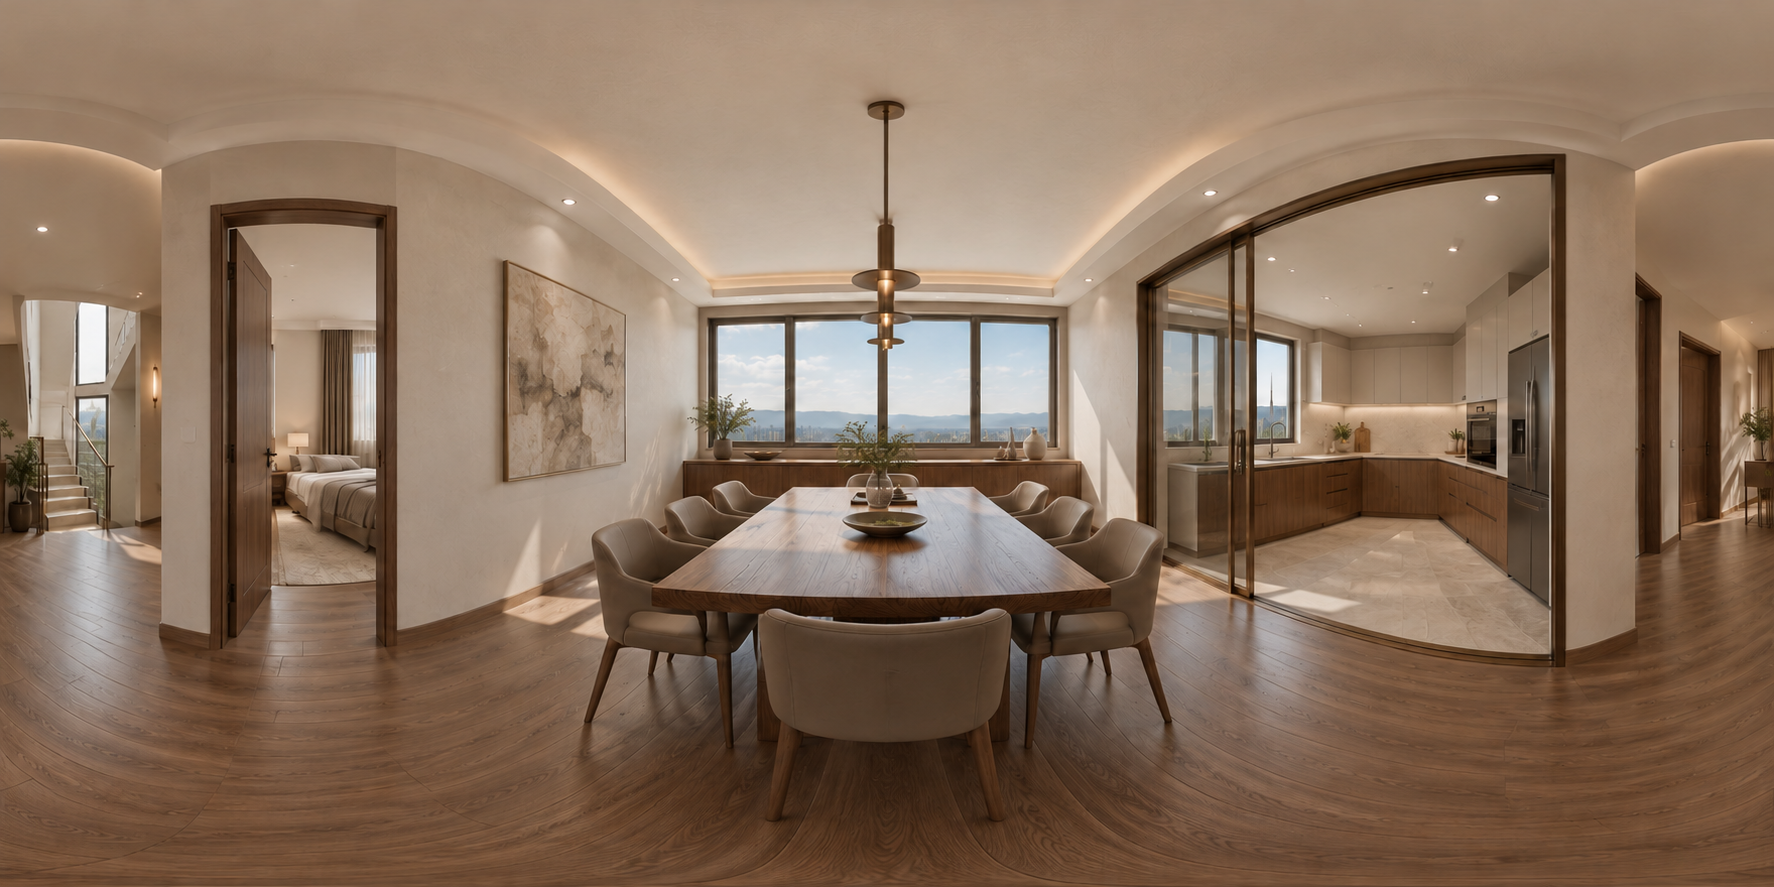
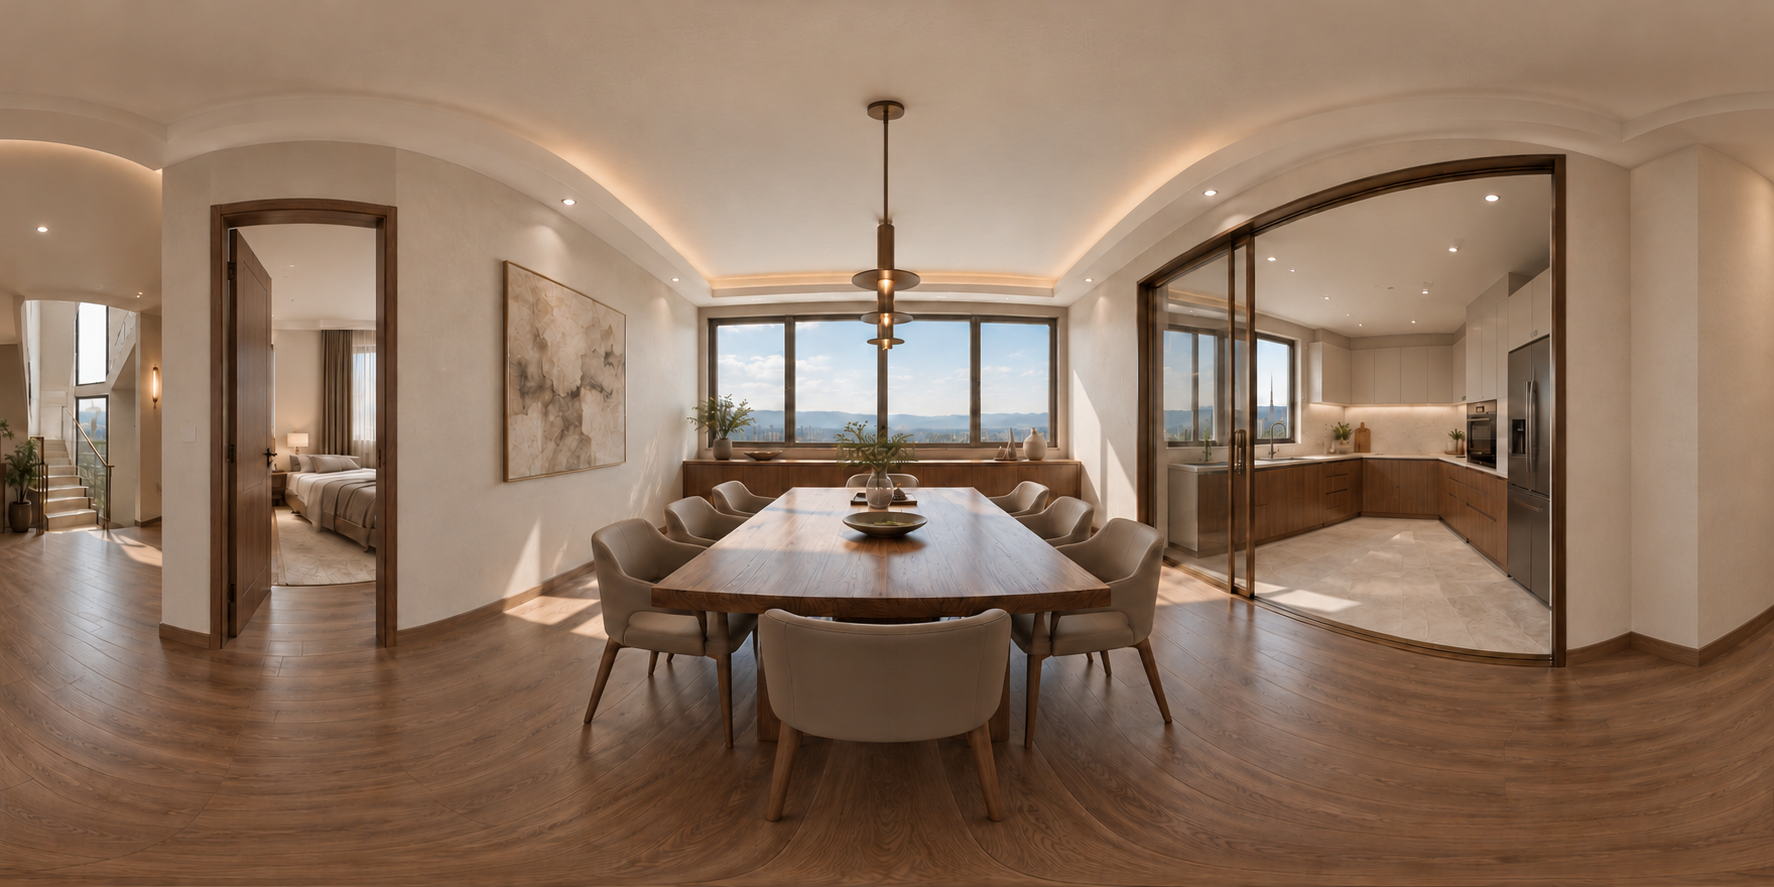
Retain the confirmed full-height wall at the dining entrance
Correct the dining and wine-hall views, show the solid wall on the latest plan map, and retain the passage on its left. Preserve rental layouts and images.

Tested: panorama integrity, normalized map overlay, viewer simulation, and frozen rental invariants.

diff --git a/italian/tour.js b/italian/tour.js
@@ -749,7 +749,16 @@ window.TOUR = {
         "width": 1302,
         "height": 1736,
[1 lines of base64/hex data omitted]
-        "note": "按用户2026-10-14新图定位；坐标仅表示图上位置，不代表米制测量。"
+        "note": "按新户型图定位；餐厅下沿灰色短墙已确认为到顶实体墙，左侧保留通行。图上位置不代表米制测量。",
+        "confirmed_wall": {
+          "u": 0.4731182795698925,
+          "v": 0.3640552995391705,
+          "width": 0.09523809523809523,
+          "height": 0.021889400921658985,
+          "label": "用户确认的到顶实体短墙，左侧保留通行口"
+        },
+        "source_image": "plans/20261014/floor11-labeled.png",
[1 lines of base64/hex data omitted]
       }
     }
   },
@@ -1159,16 +1168,16 @@ window.TOUR = {
       "image": "panoramas/floor11_02.png",
       "width": 1774,
       "height": 887,
-      "bytes": 1972908,
[1 lines of base64/hex data omitted]
+      "bytes": 1952197,
[1 lines of base64/hex data omitted]
       "style": "意式现代",
       "approval_status": "STYLE_PREVIEW_ACCEPTED",
[1 lines of base64/hex data omitted]
-      "reviewed_at": "2026-10-13T18:13:56.886Z",
[1 lines of base64/hex data omitted]
+      "reviewed_at": "2026-10-13T18:39:56.557Z",
       "quality_tier": "STYLE_PREVIEW",
       "source_model": "内置生图模型",
       "material_note": "意式现代｜胡桃木餐桌及餐边柜；灰褐色皮革餐椅；胡桃木地板；米色瓷砖；古铜色框钢化玻璃移门。材质为设计拟用说明，非品牌型号或实拍认证。",
-      "preview_note": "依2026-10-14新户型及功能标注生成的意式现代风格预览；原生1774×887，未达4K。精确空间几何、跨视点一致性及球面接缝未认证。"
+      "preview_note": "依最新户型及标注更新：餐厅入口保留到顶实体短墙，左侧通行。实际1774×887，未达原生4K；精确尺寸、跨视点一致性及球面接缝未认证。"
     },
     {
       "id": "floor11_03",
@@ -1237,16 +1246,16 @@ window.TOUR = {
       "image": "panoramas/floor11_05.png",
       "width": 1774,
       "height": 887,
-      "bytes": 2123856,
[1 lines of base64/hex data omitted]
+      "bytes": 1971707,
[1 lines of base64/hex data omitted]
       "style": "意式现代",
       "approval_status": "STYLE_PREVIEW_ACCEPTED",
[1 lines of base64/hex data omitted]
-      "reviewed_at": "2026-10-13T18:13:56.905Z",
[1 lines of base64/hex data omitted]
+      "reviewed_at": "2026-10-13T18:39:56.576Z",
       "quality_tier": "STYLE_PREVIEW",
       "source_model": "内置生图模型",
       "material_note": "意式现代｜胡桃木酒柜及地板；古铜金属门框；钢化玻璃柜门；暖白灯带；米色哑光墙面。材质为设计拟用说明，非品牌型号或实拍认证。",
-      "preview_note": "依2026-10-14新户型及功能标注生成的意式现代风格预览；原生1774×887，未达4K。精确空间几何、跨视点一致性及球面接缝未认证。 酒柜所在墙面与尺寸为方案示意，待确认。"
+      "preview_note": "依最新户型及标注更新：餐厅入口保留到顶实体短墙，左侧通行。实际1774×887，未达原生4K；精确尺寸、跨视点一致性及球面接缝未认证。 酒柜具体落位仍为示意。"
     },
     {
       "id": "floor11_06",

diff --git a/italian/viewer.js b/italian/viewer.js
@@ -149,6 +149,11 @@
     const add = (tag, attrs) => { const e = document.createElementNS(ns, tag); Object.entries(attrs).forEach(([k,v]) => e.setAttribute(k,v)); svg.append(e); return e; };
     if (planImage) {
       add('image', { x:0,y:0,width:map.width,height:map.height,href:revisedURL(map.image,map.revision),preserveAspectRatio:'xMidYMid meet' });
+      if (map.confirmed_wall) {
+        const wall = map.confirmed_wall;
+        const outline = add('rect', { x:wall.u*map.width,y:wall.v*map.height,width:wall.width*map.width,height:wall.height*map.height,fill:'#fff',stroke:'#555','stroke-width':8,'aria-label':wall.label });
+        outline.dataset.annotation = 'confirmed-full-height-wall';
+      }
     } else {
       add('rect', { x:0,y:0,width:12.1,height:21.5,fill:'#e9e2d4' });
       for (const w of models[model].walls) add('line', { x1:w[0],y1:w[1],x2:w[2],y2:w[3],stroke:w[5] || '#6e6557','stroke-width':w[4] });
@@ -188,7 +193,7 @@
     for (const id of ['original','download']) { $(id).href = imageURL; $(id).hidden = false; }
     const map = models[model].map;
     $('planOriginal').hidden = map?.type !== 'plan-image';
-    if (map?.type === 'plan-image') $('planOriginal').href = revisedURL(map.image,map.revision);
+    if (map?.type === 'plan-image') $('planOriginal').href = revisedURL(map.source_image || map.image,map.source_revision || map.revision);
     $('download').download = `${node.id}_意式现代_${node.width}x${node.height}.png`;
     renderMenus(); renderMap();
     history.replaceState(null, '', '#' + node.id);

diff --git a/italian/index.html b/italian/index.html
@@ -5,9 +5,9 @@
   <meta name="viewport" content="width=device-width,initial-scale=1,viewport-fit=cover">
   <meta name="description" content="依据最新标注户型更新10层、11层意式现代自用住宅全景预览，出租公寓保留原方案。">
   <title>意式现代 · 全屋全景</title>
-  <link rel="stylesheet" href="viewer.css?v=20261014-newplan">
-  <script src="tour.js?v=20261014-newplan-worktop" defer></script>
-  <script src="viewer.js?v=20261014-newplan" defer></script>
+  <link rel="stylesheet" href="viewer.css?v=20261014-solid-wall">
+  <script src="tour.js?v=20261014-solid-wall" defer></script>
+  <script src="viewer.js?v=20261014-solid-wall" defer></script>
 </head>
 <body>
   <canvas id="view" tabindex="0" aria-label="360度全景。拖动环视，滚轮缩放，也可使用方向键。"></canvas>

diff --git a/italian/README.md b/italian/README.md
@@ -16,6 +16,8 @@
 
 节点使用 `map_point: {u,v}`，取值0..1，基准为包含白边的完整图片。SVG采用底图原始宽高；点显示在 `u*width, v*height`，不拉伸、不再叠加上层旧米制墙线。此导航不代表精确测量或实测相机位置。图上方位不自动等于真北。出租层继续采用原有 `x/y` 和 `walls` 分支。
 
+用户补充确认：11层餐厅下沿、会客厅入口左侧的灰色短段是到顶实体墙。地图以 `confirmed_wall` 补入该段，左侧通行口保留；原图入口提供用户标注图，避免清图漏掉补充墙段。墙高类型已确认，墙长/厚度仅按图示范围表达，非实测尺寸。
+
 ## 图片质量与导入
 
 `standard_02`保留原3840×1920图片。内置模型1774×887图片仅为意式现代风格预览，原字节展示、未放大；播放器明确标实际像素和“未达4K”。视点齐全不代表原生高清、无缝球面或施工尺寸验收，生成图空间几何与接缝仍需视觉核对。
